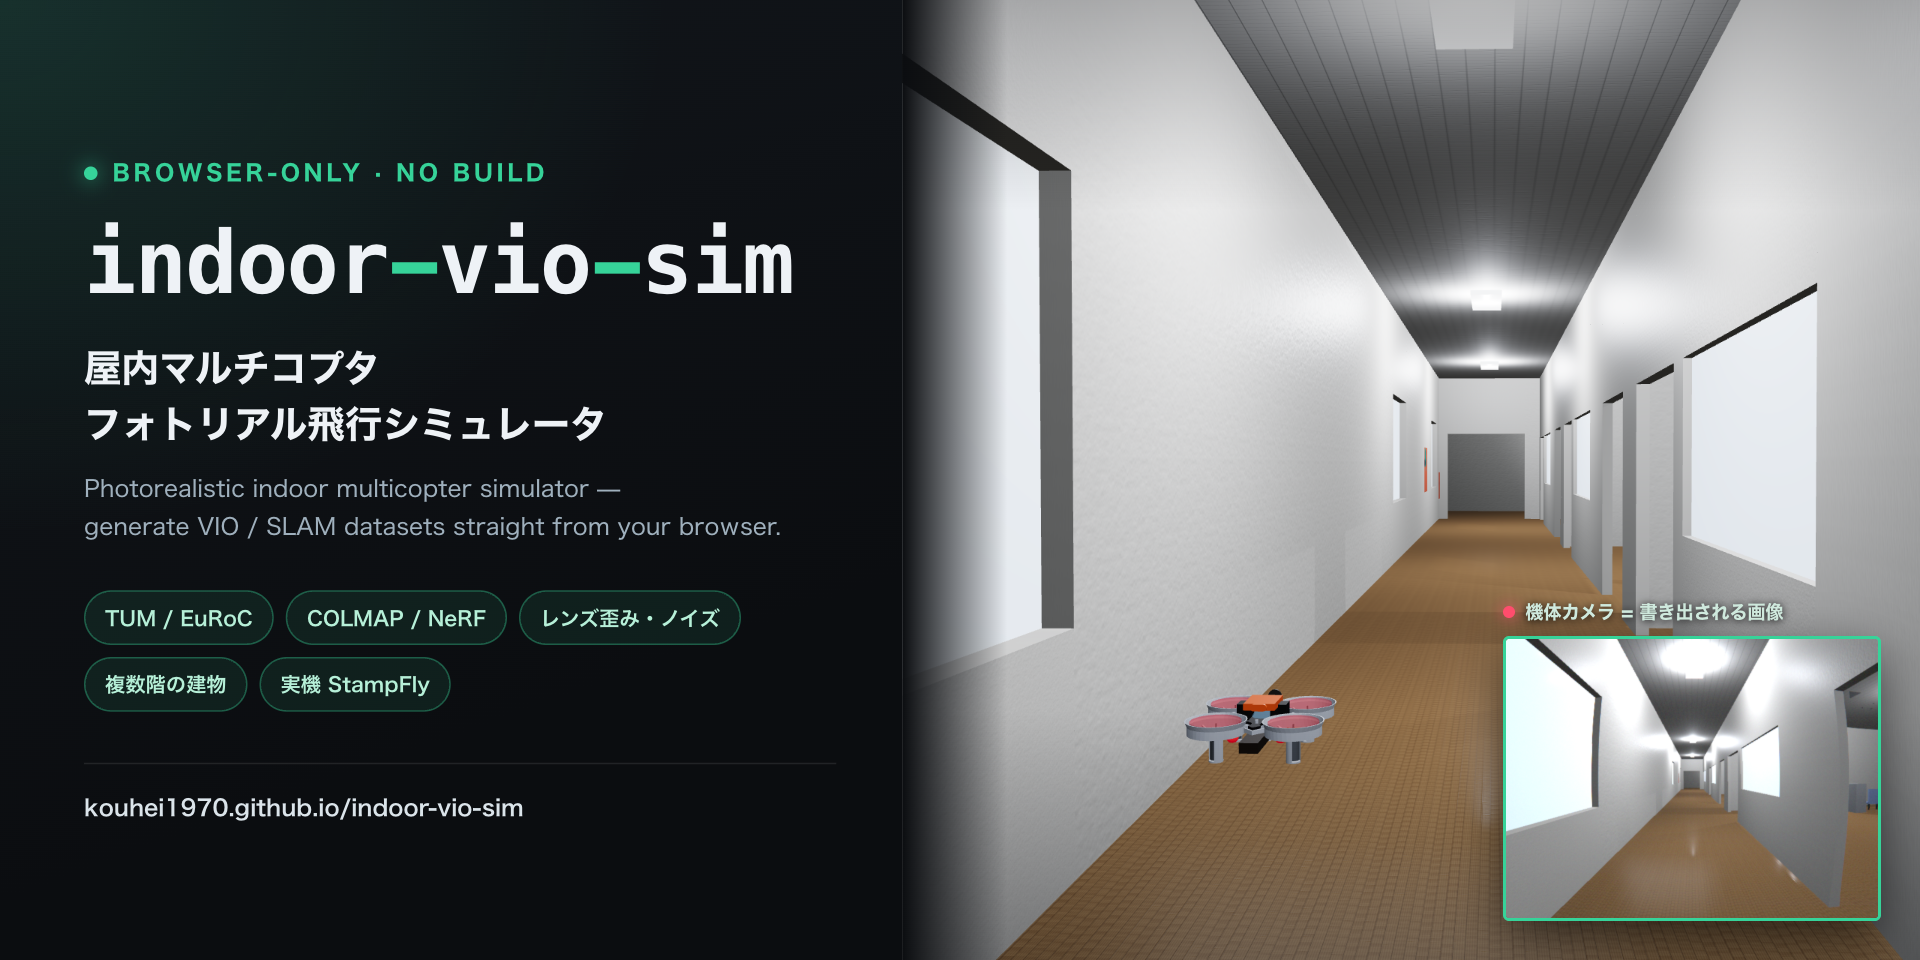
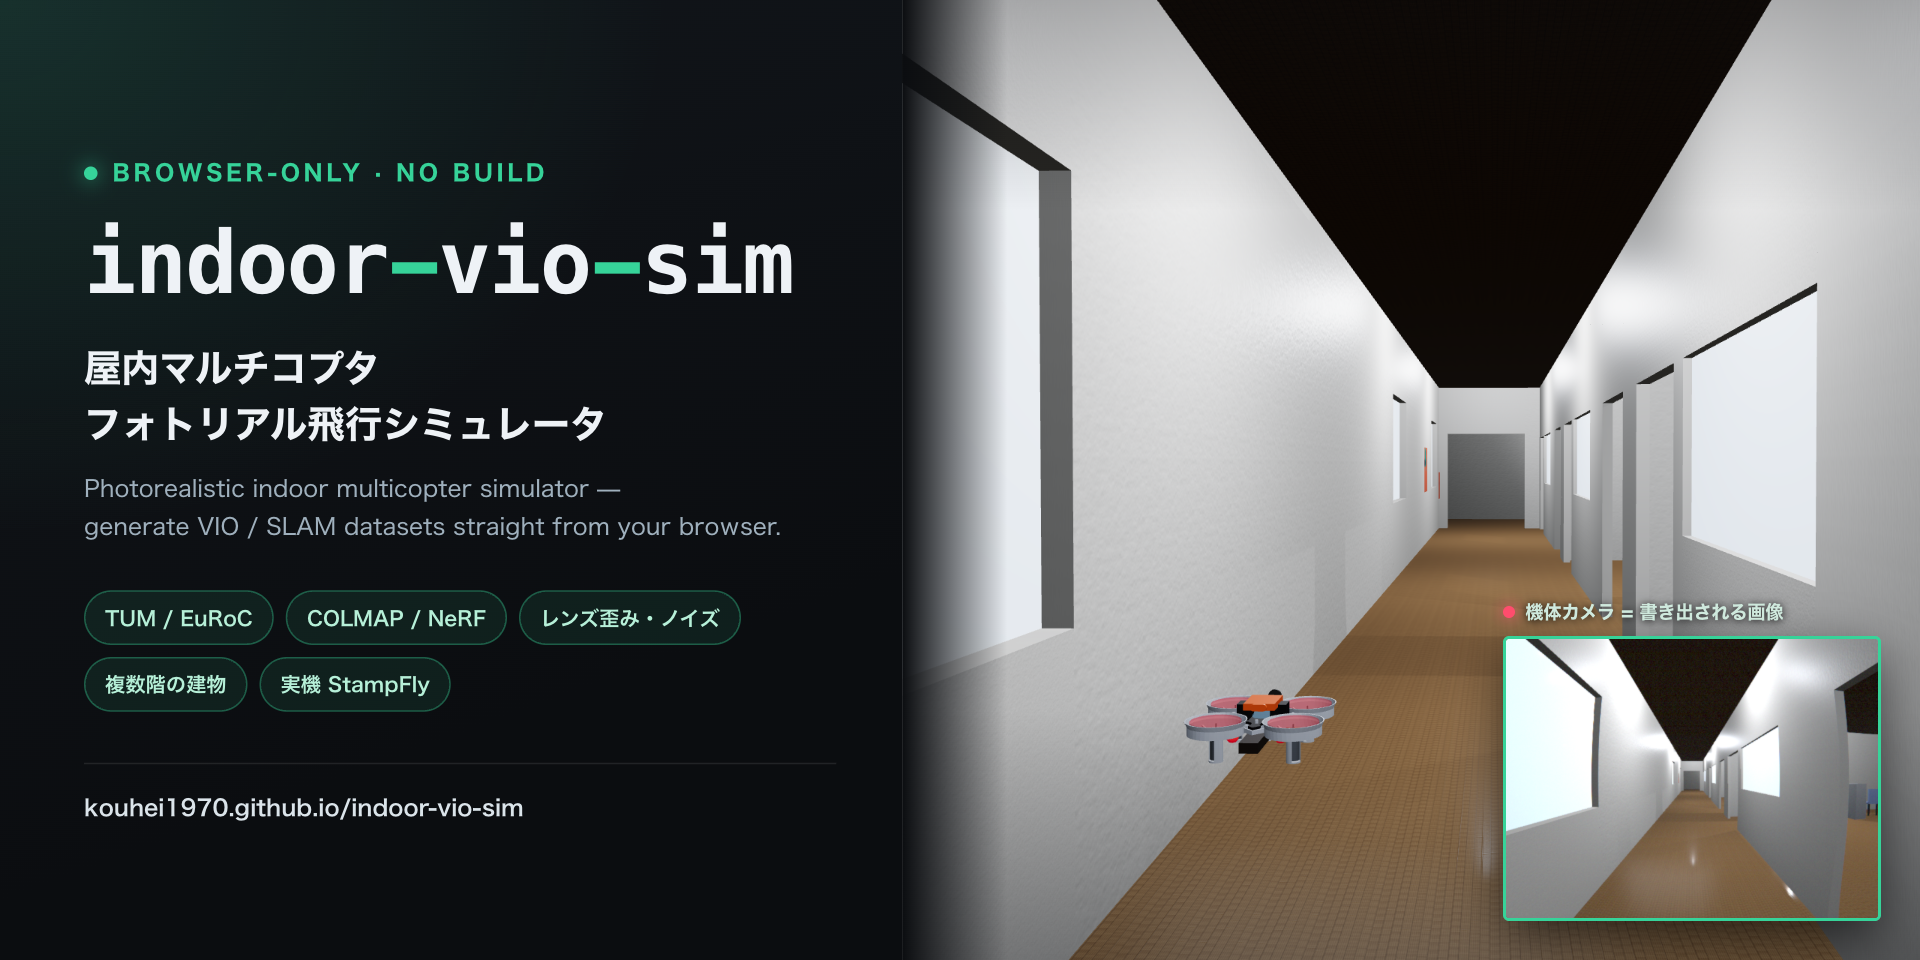
fix(building): 建物の床・天井が見た目と当たり判定でずれていた
Changes:
- 床スラブを elevation から下へ吊るように修正 (22cm のずれを解消)
- 天井も同様に下へ吊るし、上階の床の上に突き出さないようにした
- 天井の当たり判定を、見えている下面に合わせた
- smoke に「床の見た目と当たり判定が一致する」検査を追加
- 床の位置が変わったので SNS カードを撮り直した

This fixes 学校の廊下などで機体が床にめり込む問題. The problem was:
1. 床スラブは ExtrudeGeometry を rotateX(-90°) して作っている
2. 押し出し方向 +Z が回転で +Y (上) を向くため、スラブは elevation から
   「上へ」厚み 22cm ぶん立ち上がっていた
3. 一方その当たり判定は elevation を上面として登録されていた
4. 結果、見えている床面が物理の床面より 22cm 高く、着地した機体は
   床の中に沈んで見えた
5. 天井も同じ向きに押し出されており、上階の床の上に 6cm 突き出ていた

With this fix:
1. スラブは elevation から下へ (top = elevation) 伸びる
2. 天井は elevation + height から下へ吊る (下面 = 見えている面)
3. 学校 1F/2F/3F すべてで、着地時のモデル最下点と床面の差が 0.8mm

  修正前  1F -0.2mm(実は床面から -220mm) / 2F +57.7mm / 3F +49.9mm
  修正後  1F  +0.7mm / 2F +0.8mm / 3F +0.8mm

1F で気付きにくかったのは、初期位置が elevation+0.21m で、ちょうど
持ち上がった床の上面 (+0.22m) と重なっていたため。降下させて初めて
22cm 沈んだ。上の階では階段で上がって着地するので、ずれが直に見えた。

全 4 建物・全階・天井についても一致を確認した (学校/公民館/工場/事務所ビル)。

Related files:
- src/render/buildingBuilder.js: buildFloor のスラブ・天井
- tools/smoke.mjs: 床の一致検査
- assets/social-card.png: 撮り直し

検証: npm test 75/75 pass, tools/smoke.mjs 全項目 ok
      床の一致 school/community/factory/office すべて 0.0mm

Next steps:
- `npm start` で学校の 2F・3F へ階段室から上がり、着地して目視確認
- 工場のキャットウォーク (noCeiling の階) でも着地を確認
- 体育館プリセットの追加 (バスケコート 2 面・高天井) — 次の作業

diff --git a/src/render/buildingBuilder.js b/src/render/buildingBuilder.js
@@ -260,9 +260,17 @@ export class BuildingBuilder {
     const voids = floor.voids || [];
 
     // --- 床スラブ (吹抜の穴あき) ---
+    //
+    // elevation は「床の上面」の高さ。階高・階段・吹抜・飛行ルートは
+    // すべてこの面を基準にしているので、スラブは elevation から下へ厚み分
+    // 伸ばす。ExtrudeGeometry は +Z へ押し出し、rotateX(-90°) でそれが +Y
+    // (上) へ向くので、そのままだと床が elevation より上に立ち上がって
+    // しまう。当たり判定は elevation を上面として登録しているため、
+    // 見えている床と物理の床が厚み分 (22cm) ずれて機体がめり込んで見えた。
     const slabGeo = new THREE.ExtrudeGeometry(makeShape(outline, voids),
       { depth: slabT, bevelEnabled: false });
     slabGeo.rotateX(-PI / 2);           // XZ 平面へ
+    slabGeo.translate(0, -slabT, 0);    // 上面を elevation に合わせる
     const slab = new THREE.Mesh(slabGeo, mats.floor);
     slab.position.y = elevation;
     slab.receiveShadow = true;
@@ -290,8 +298,12 @@ export class BuildingBuilder {
     const ceilVoids = stacked ? (above.voids || []) : [];
     if (!floor.noCeiling) {
       const ceilShape = makeShape(outline, ceilVoids);
-      const ceilGeo = new THREE.ExtrudeGeometry(ceilShape, { depth: 0.06, bevelEnabled: false });
+      const ceilT = 0.06;
+      const ceilGeo = new THREE.ExtrudeGeometry(ceilShape, { depth: ceilT, bevelEnabled: false });
       ceilGeo.rotateX(-PI / 2);
+      // 床スラブと同じ理由で下へ吊る。上へ伸ばすと、真上の階の床の上に
+      // 天井が 6cm 突き出し、上階に着地した機体が浮いてしまう。
+      ceilGeo.translate(0, -ceilT, 0);
       const ceil = new THREE.Mesh(ceilGeo, isTop ? mats.exterior : mats.ceiling);
       ceil.name = `ceiling-${floor.name}`;
       ceil.position.y = elevation + height;
@@ -299,8 +311,9 @@ export class BuildingBuilder {
       if (floorIndex != null) this.floorGroup(floorIndex).add(ceil);
       else this.group.add(ceil);
       for (const cell of rectMinusHoles(outline, ceilVoids)) {
-        this.addBox((cell.x0 + cell.x1) / 2, elevation + height + 0.03, (cell.z0 + cell.z1) / 2,
-          (cell.x1 - cell.x0) / 2, 0.03, (cell.z1 - cell.z0) / 2, 0, 'ceiling');
+        // 天井の下面 (= 見えている面) を elevation + height に合わせる
+        this.addBox((cell.x0 + cell.x1) / 2, elevation + height - ceilT / 2, (cell.z0 + cell.z1) / 2,
+          (cell.x1 - cell.x0) / 2, ceilT / 2, (cell.z1 - cell.z0) / 2, 0, 'ceiling');
       }
     }
 
